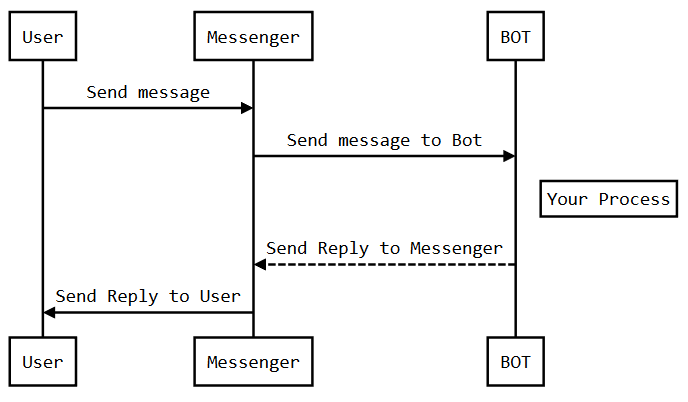
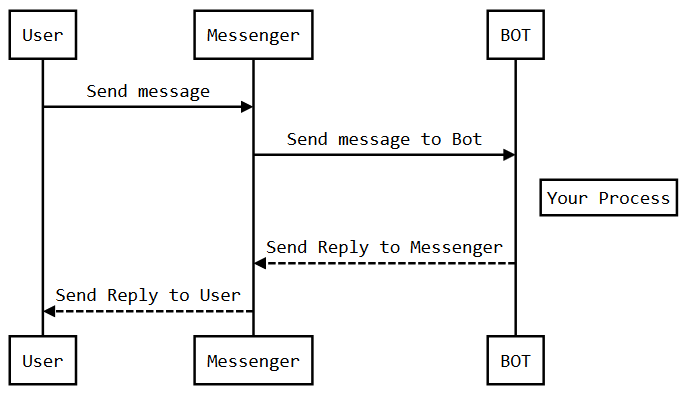
sequence diagram

diff --git a/README.md b/README.md
@@ -130,7 +130,7 @@ User->Messenger: Send message
 Messenger->BOT: Send message to Bot 
 Note right of BOT: Your Process 
 BOT-->Messenger: Send Reply to Messenger 
-Messenger->User:Send Reply to User
+Messenger-->User:Send Reply to User
 ```
 ![Sequence Diagram](docs/sequence-diagram.png "Sequence Diagram")
 
